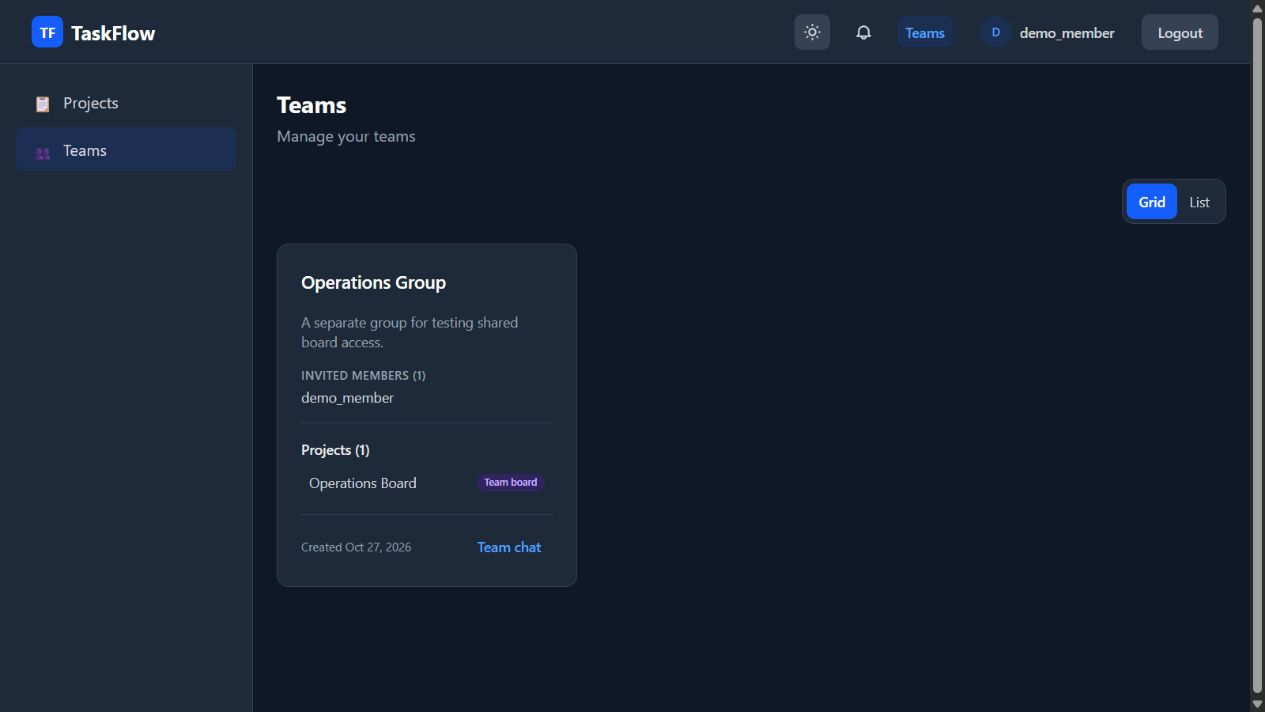
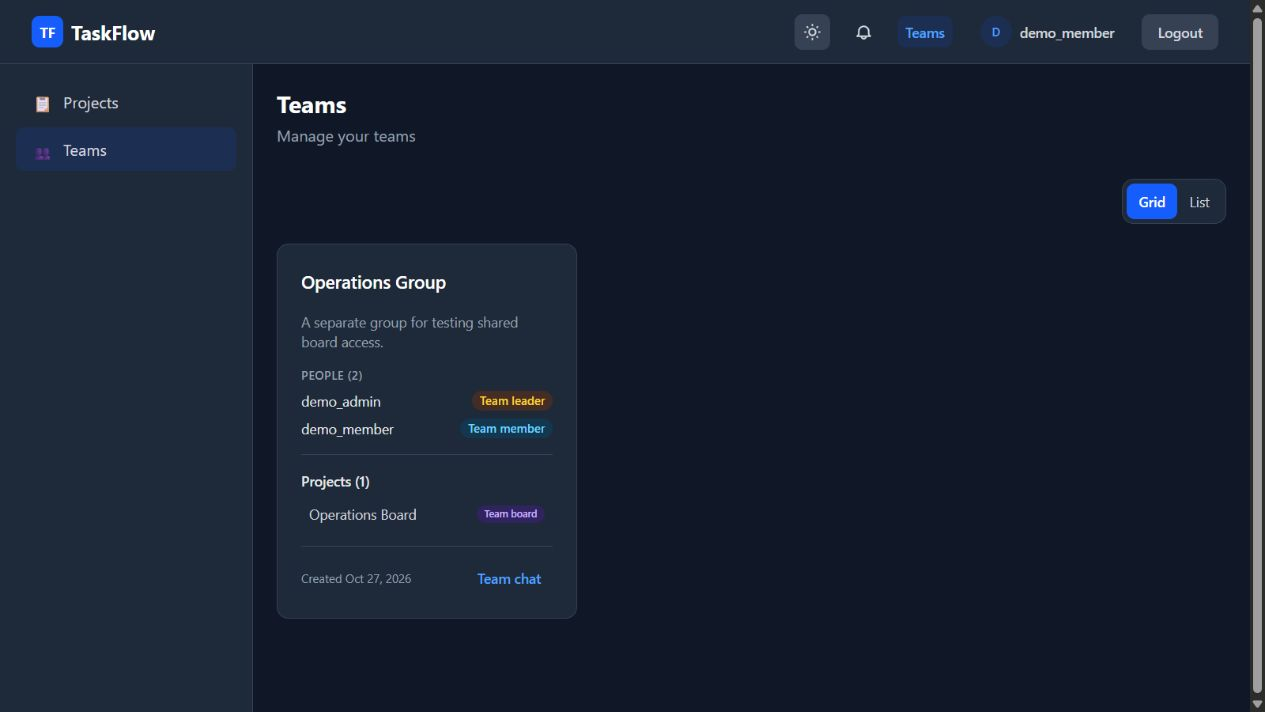
Refresh email login and team role screenshots

diff --git a/README.md b/README.md
@@ -56,7 +56,7 @@ The role gallery below comes from the real client and API. The original board an
 
 ### Sign in and Admin
 
-![Login](screenshots/login.png)
+![Email-first login](screenshots/login-email.jpg)
 ![Admin projects, including all four demo boards](screenshots/admin-dashboard.png)
 ![Admin teams](screenshots/admin-teams.png)
 
@@ -76,6 +76,8 @@ The role gallery below comes from the real client and API. The original board an
 
 ![Member projects](screenshots/member-dashboard.png)
 ![Member's Operations Group, with team board and no owner actions](screenshots/member-teams-current.jpg)
+![Member's Operations Group in list view, with team-specific role badges](screenshots/member-teams-list.jpg)
+![Member profile with account role explained separately from team roles](screenshots/member-profile-role.jpg)
 ![Member team chat](screenshots/member-team-chat.jpg)
 ![Member's shared board after moving the Admin's card](screenshots/member-board.png)
 ![Member comment on the shared card](screenshots/member-comments.png)
